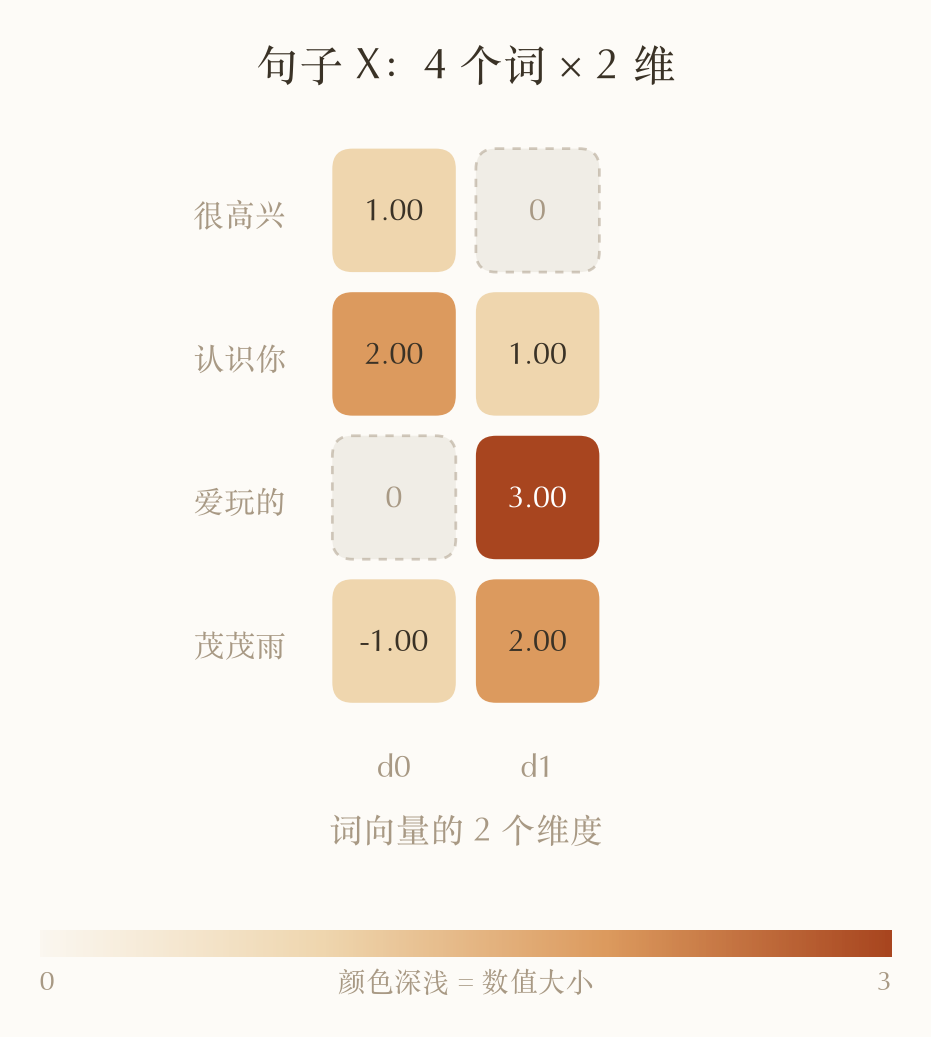
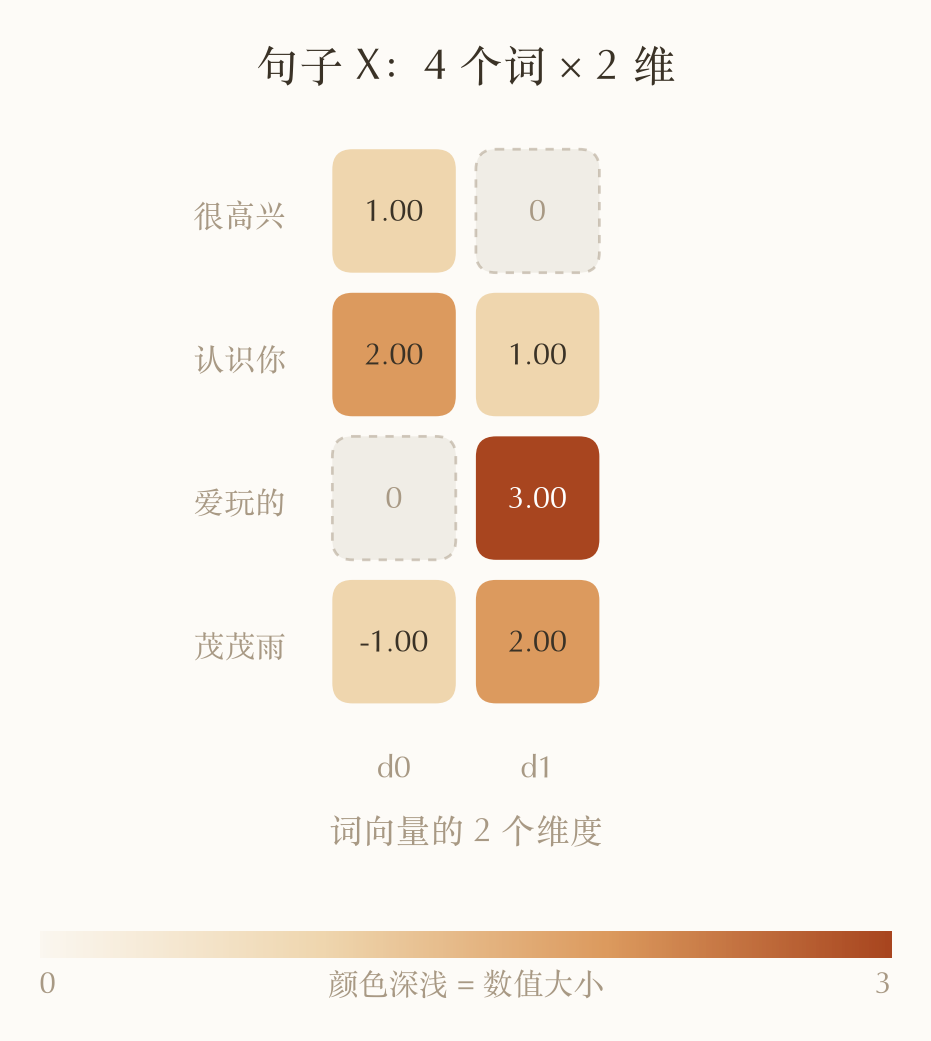
插图尺寸与字号按页面像素统一
之前网页图的字在页面上是 13~40px：各图画幅宽 1000~1950px 不等，显示宽却只有
两档，缩放比例差 1.6 倍，同一个 pt 字号呈现出来差很多，一篇里的图不像一套。

- save_web() 加字号兜底，阈值按网页定（最小 15px，正文 17px），不是卡片的 22px
- 显示宽改成「原图宽 × 0.47，夹到 [460,960]」，各图缩放比例一致
- build.py 用同一公式把宽度写进 figure 的 --w，两边必须同步
- 结果：图内字统一到 15~27px；图的大小自然有了层次，信息密度高的图更大

diff --git a/notes/rn01-attention/index.html b/notes/rn01-attention/index.html
@@ -43,7 +43,7 @@
 <p>例句：<strong>很高兴认识你爱玩的茂茂雨</strong><br/>
 切成 4 个词：<code>很高兴</code> 、<code>认识你</code> 、<code>爱玩的</code> 、<code>茂茂雨</code><br/>
 每个词用一个 2 维向量表示（随便像下面这样设一个），整句话就是一个 <strong>4 × 2 的矩阵</strong>:</p>
-<figure class="inset"><img alt="01_x_matrix.png" height="1037" loading="lazy" src="../../assets/img/rn01-attention/01_x_matrix.png" width="931"/><button aria-label="放大看" class="zoom">⤢</button></figure>
+<figure class="" style="--w:460px"><img alt="01_x_matrix.png" height="1041" loading="lazy" src="../../assets/img/rn01-attention/01_x_matrix.png" width="931"/><button aria-label="放大看" class="zoom">⤢</button></figure>
 <h3 id="cnn-处理此序列的情况">CNN 处理此序列的情况</h3>
 <p>但 PyTorch 的 <code>Conv1d</code> 要的是 <code>(batch, 每个词的向量维度, 词的个数)</code>，<strong>需要转置一下</strong>。卷积核设为 <code>conv = nn.Conv1d(n, n, kernel_size=3, padding=1, bias=False)</code></p>
 <blockquote>
@@ -53,21 +53,21 @@ kernel_size=3：窗口一次盖 3 个位置。<br/>
 padding=1：两端各补 1 列 0，让 4 个词进、还是 4 个数出。<br/>
 bias=False：算完不再加常数项。</p>
 </blockquote>
-<figure class=""><img alt="01_conv_walkthrough.png" height="1808" loading="lazy" src="../../assets/img/rn01-attention/01_conv_walkthrough.png" width="1321"/><button aria-label="放大看" class="zoom">⤢</button></figure>
-<figure class=""><img alt="04_number_tower.png" height="2060" loading="lazy" src="../../assets/img/rn01-attention/04_number_tower.png" width="1572"/><button aria-label="放大看" class="zoom">⤢</button></figure>
+<figure class="" style="--w:621px"><img alt="01_conv_walkthrough.png" height="1808" loading="lazy" src="../../assets/img/rn01-attention/01_conv_walkthrough.png" width="1321"/><button aria-label="放大看" class="zoom">⤢</button></figure>
+<figure class="" style="--w:739px"><img alt="04_number_tower.png" height="2060" loading="lazy" src="../../assets/img/rn01-attention/04_number_tower.png" width="1572"/><button aria-label="放大看" class="zoom">⤢</button></figure>
 <p>如果你同时关注一下<code>第二层的“10”</code>和<code>第三层的“3”</code>，往回追溯，你就会发现<code>第二层的“10”</code>仅包含了<code>认识你</code> 、<code>爱玩的</code> 、<code>茂茂雨</code>，而只有到<code>第三层的“3”</code>才完全得到了这组序列的全部信息。</p>
 <p><strong>在这个场景下，感受野和梯度能否传达其实是一回事</strong>。<code>很高兴</code> 不在 <code>茂茂雨</code> 的感受野里，意思就是不管 <code>很高兴</code> 怎么改，<code>茂茂雨</code> 那个输出都纹丝不动——这正是“梯度等于 0”。所以 CNN 的痛点就在于“<strong>层数低，感受野小，够不到</strong>”。</p>
 <p>但反过来不成立：够得到不等于传得动。下面的 RNN 就是够得到但传不动的典型。<br/>
 然而，想要层数少，就得增加卷积核的大小。那放到真实规模上是个什么概念？按 GPT-2 那种配置粗算一下：序列 2048 个词、词向量 768 维、核宽还是 3。<strong>感受野每层只往外扩 1 个词，要够到最远那一个得堆 1024 层</strong>，参数量约 18 亿、一次前向约 $3.7\times10^{12}$ 次乘加。</p>
 <h3 id="rnn-处理此序列的情况">RNN 处理此序列的情况</h3>
 <p>看一下RNN的网络结构：</p>
-<figure class="inset"><img alt="00_rnn_overview.png" height="1678" loading="lazy" src="../../assets/img/rn01-attention/00_rnn_overview.png" width="1246"/><button aria-label="放大看" class="zoom">⤢</button></figure>
+<figure class="" style="--w:460px"><img alt="00_rnn_overview.png" height="1678" loading="lazy" src="../../assets/img/rn01-attention/00_rnn_overview.png" width="1246"/><button aria-label="放大看" class="zoom">⤢</button></figure>
 <p>这是个很漂亮的结构，而且通过一个循环迭代的方式，就能将词与词之间的联系训练更新到同一套反复使用参数$W_x$和$W_h$里面，<br/>
 真实推理的时候，只需要一份 RNN 单元，加上一个来自上一个词的记忆缓存就够了。发现它还有一个问题：batch 维度其实是能并行的，不能并行的是<strong>时间步</strong>——第 $t$ 步必须等第 $t-1$ 步的 $h$ 算完才能开始。句子多长就得串行多少步，GPU 在这件事上使不上劲。<br/>
 再看看前面搜到的“信息衰减”是怎么回事，瞅一眼 $\tanh$ 及其导数的图像：</p>
-<figure class=""><img alt="03_tanh_squash.png" height="2402" loading="lazy" src="../../assets/img/rn01-attention/03_tanh_squash.png" width="1767"/><button aria-label="放大看" class="zoom">⤢</button></figure>
-<figure class=""><img alt="01_one_step.png" height="1943" loading="lazy" src="../../assets/img/rn01-attention/01_one_step.png" width="1397"/><button aria-label="放大看" class="zoom">⤢</button></figure>
-<figure class="wide"><img alt="02_unroll.png" height="1365" loading="lazy" src="../../assets/img/rn01-attention/02_unroll.png" width="1662"/><button aria-label="放大看" class="zoom">⤢</button></figure>
+<figure class="wide" style="--w:830px"><img alt="03_tanh_squash.png" height="2402" loading="lazy" src="../../assets/img/rn01-attention/03_tanh_squash.png" width="1767"/><button aria-label="放大看" class="zoom">⤢</button></figure>
+<figure class="" style="--w:657px"><img alt="01_one_step.png" height="1943" loading="lazy" src="../../assets/img/rn01-attention/01_one_step.png" width="1397"/><button aria-label="放大看" class="zoom">⤢</button></figure>
+<figure class="wide" style="--w:781px"><img alt="02_unroll.png" height="1365" loading="lazy" src="../../assets/img/rn01-attention/02_unroll.png" width="1662"/><button aria-label="放大看" class="zoom">⤢</button></figure>
 在以上这个例子的计算当中，可以看出当出现接近+-1的h数值时，会得到一个非常小的导数值0.015，但是好像也没有小到会让信息损失🤔，进一步看看反向传播时候的计算情况：
 先把用到的符号列一下，免得自己都看糊涂。
 
@@ -227,10 +227,10 @@ bias=False：算完不再加常数项。</p>
 <p>$W_Q$、$W_K$、$W_V$ 的含义：三个可学习矩阵，把同一个词分别投影成「拿去问的」「等着被问的」「被选中后交出去的」三份表示，形状都是 $(d, d_k)$，读作「$d$ 维进、$d_k$ 维出」，<strong>和句子多长无关</strong>。</p>
 <h4>模型框架</h4>
 <p>在这一层网络中，$Z = \alpha V = \alpha X W_V$ 就完成了 4 个词之间的全连接。</p>
-<figure class=""><img alt="00b_attn_connect.png" height="1538" loading="lazy" src="../../assets/img/rn01-attention/00b_attn_connect.png" width="1502"/><button aria-label="放大看" class="zoom">⤢</button></figure>
-<figure class=""><img alt="00a_attn_structure.png" height="2056" loading="lazy" src="../../assets/img/rn01-attention/00a_attn_structure.png" width="1434"/><button aria-label="放大看" class="zoom">⤢</button></figure>
-<figure class=""><img alt="02a_scores.png" height="2485" loading="lazy" src="../../assets/img/rn01-attention/02a_scores.png" width="1369"/><button aria-label="放大看" class="zoom">⤢</button></figure>
-<figure class=""><img alt="02b_softmax.png" height="2560" loading="lazy" src="../../assets/img/rn01-attention/02b_softmax.png" width="1509"/><button aria-label="放大看" class="zoom">⤢</button></figure>
+<figure class="" style="--w:706px"><img alt="00b_attn_connect.png" height="1538" loading="lazy" src="../../assets/img/rn01-attention/00b_attn_connect.png" width="1502"/><button aria-label="放大看" class="zoom">⤢</button></figure>
+<figure class="" style="--w:674px"><img alt="00a_attn_structure.png" height="2056" loading="lazy" src="../../assets/img/rn01-attention/00a_attn_structure.png" width="1434"/><button aria-label="放大看" class="zoom">⤢</button></figure>
+<figure class="" style="--w:643px"><img alt="02a_scores.png" height="2485" loading="lazy" src="../../assets/img/rn01-attention/02a_scores.png" width="1369"/><button aria-label="放大看" class="zoom">⤢</button></figure>
+<figure class="" style="--w:709px"><img alt="02b_softmax.png" height="2560" loading="lazy" src="../../assets/img/rn01-attention/02b_softmax.png" width="1509"/><button aria-label="放大看" class="zoom">⤢</button></figure>
 <blockquote>
 <p><strong>既然说到单层的“全连接”，为什么不直接用MLP呢？</strong></p>
 <p>其实仔细观察两者的形式，可以注意到，Self-Attention有个和 MLP 的根本区别：<strong>$\alpha$ 是算出来的，不是学出来的</strong>。MLP 里 $y_i = \sum_j W_{ij} x_j$（此处省略一下激活函数），「位置 $j$ 对位置 $i$ 贡献多少」是 $W_{ij}$ 这个参数，训练完就是常数——输入变了输出当然跟着变，但那个<strong>系数</strong>不变。这里的 $\alpha_{ij}$ 本身就由 $X$ 现算，换一句话，整张系数表都换了。</p>

diff --git a/assets/style.css b/assets/style.css
@@ -151,16 +151,16 @@ tbody tr:last-child td{border-bottom:none}
 figure{margin:2.4rem 0}
 /* 高度封顶只挡极端高的图。定得太紧（84vh）会把竖图压得比正文栏还窄，
    反而丢掉细节 —— 竖图本来就该滚着看。 */
-figure img{width:auto;max-width:100%;max-height:124vh;height:auto;
+figure img{width:100%;max-width:100%;max-height:124vh;height:auto;
   display:block;margin-inline:auto;border-radius:6px}
 /* 图比正文栏宽：网页没有分页约束，图宽一点图里的字就大一点。
    这是相对小红书卡片的红利，别浪费。 */
 /* ⚠ 别用 transform:translateX(-50%) 居中：下面淡入动画的 transform:none 会覆盖它，
    图会整个跑到右边。用 margin 算偏移，和 transform 不打架。 */
-figure.wide{--w:min(100vw - 3rem, var(--wide));
-  width:var(--w);margin-left:calc(50% - var(--w) / 2)}
-figure.inset{width:min(100%,30rem);margin-inline:auto}
-figure.wide+figure.wide{margin-top:1.6rem}
+/* 每张图的 --w 由 build.py 按「原图宽 × 0.47」算好写进 inline style，
+   和出图时兜底字号用的宽度是同一个数。别在这里改宽度，会让字号底线失效。 */
+figure{--w:704px;width:min(100% , var(--w));margin-inline:auto}
+figure.wide{width:min(100vw - 3rem, var(--w));margin-left:calc(50% - min(100vw - 3rem, var(--w)) / 2)}
 figcaption{
   font-family:var(--mono);font-size:.72rem;line-height:1.6;letter-spacing:.03em;
   color:var(--mute);text-align:center;margin-top:.7rem;

diff --git a/build.py b/build.py
@@ -25,6 +25,10 @@ except ImportError:
 from bs4 import BeautifulSoup
 from PIL import Image
 
+# 显示宽度的公式和 Lab/_shared/themes.py 里的 web_display_width 必须一致
+WEB_SCALE = 0.47
+WEB_W_MIN, WEB_W_MAX, WEB_W_COL = 460, 960, 704
+
 
 # ── 工具 ──────────────────────────────────────────────────────────
 def find_img(name):
@@ -80,15 +84,16 @@ def render_body(md_text, imgdir, rel_img):
             iw, ih = Image.open(dst).size
         except Exception:
             iw, ih = 0, 0
-        # 呈现规则（按图自己的形状定，别按 md 里给卡片标的宽度）：
-        #   md 标了小宽度   → inset，窄一点，和正文同一节奏
-        #   横图 (w ≥ h)    → wide，挣脱到比正文栏宽，图里的字才够大
-        #   竖图 (h > w)    → 正文栏宽；挣脱了也会被高度顶回去，反而更窄
-        ratio = (iw / ih) if (iw and ih) else 1
-        cls = ("inset" if (w.strip().isdigit() and int(w) <= 700)
-               else "wide" if ratio >= 1.0 else "")
+        # 显示宽度 = 原图宽 × WEB_SCALE，和 themes.web_display_width 同一个公式。
+        # 两边必须一致：出图时按这个宽度兜底字号，页面就得按这个宽度显示，
+        # 否则兜底的 15px 底线在页面上根本不成立。
+        inset = w.strip().isdigit() and int(w) <= 700
+        disp = (WEB_W_MIN if inset
+                else int(max(WEB_W_MIN, min(WEB_W_MAX, round(iw * WEB_SCALE)))) if iw
+                else WEB_W_COL)
+        cls = "wide" if disp > WEB_W_COL + 60 else ""   # 只比正文栏宽一点点就别挣脱了，错位不值得
         figs.append((p.name, cls))
-        return (f'<figure class="{cls}">'
+        return (f'<figure class="{cls}" style="--w:{disp}px">'
                 f'<img src="{rel_img}/{p.name}" alt="{htmlmod.escape(name.strip())}" '
                 f'loading="lazy" width="{iw}" height="{ih}">'
                 f'<button class="zoom" aria-label="放大看">⤢</button>'

diff --git a/README.md b/README.md
@@ -81,13 +81,22 @@ VLA_WEB=1 python run-all.py    # 网页版 → out_web/ （保持原字号、边
 会把太小的字强行放大；网页上图是 700~960px 显示、还能点开看原图，不需要放大，
 放大了反而笨重。规则写在 `Lab/_shared/themes.py` 顶部。
 
-页面上的呈现按图自己的形状定，不用手工指定：
+页面上每张图显示多宽是算出来的，不用手工指定：
 
-| 图的形状 | 呈现 |
-|---|---|
-| md 里标了 `\|N` 且 N ≤ 700 | 窄图，跟正文同一节奏 |
-| 横图（宽 ≥ 高） | 挣脱到 960px，比正文栏宽 |
-| 竖图（高 > 宽） | 正文栏宽 704px（挣脱了也会被高度顶回来，反而更窄） |
+```
+显示宽 = 原图宽 × 0.47，夹到 [460, 960]
+```
+
+**为什么按原图宽等比例算，而不是分几档**：各张图的画幅从 1000px 到 1950px 不等，
+如果显示宽只有「正文栏 / 挣脱」两档，缩放比例会差出 1.6 倍 —— 同一个 pt 字号，
+有的图上 15px、有的 40px，一篇文章里的插图看着就不是一套。按固定比例缩，
+图内字的像素大小才处处相同。副作用正好是想要的：内容多的图自然更大。
+
+出图时 `save_web()` 按同一个宽度兜底字号（图内最小字 ≥ 15px，正文 17px），
+`build.py` 把算出的宽度写进 `<figure style="--w:...">`。**两边公式必须一致**，
+改一边就要改另一边，否则那条 15px 底线在页面上不成立。
+
+超过正文栏 60px 的图会挣脱居中，其余留在正文栏内；md 里标了 `|N`（N ≤ 700）的按最小宽显示。
 
 所有图都可以点开看原图。
 
